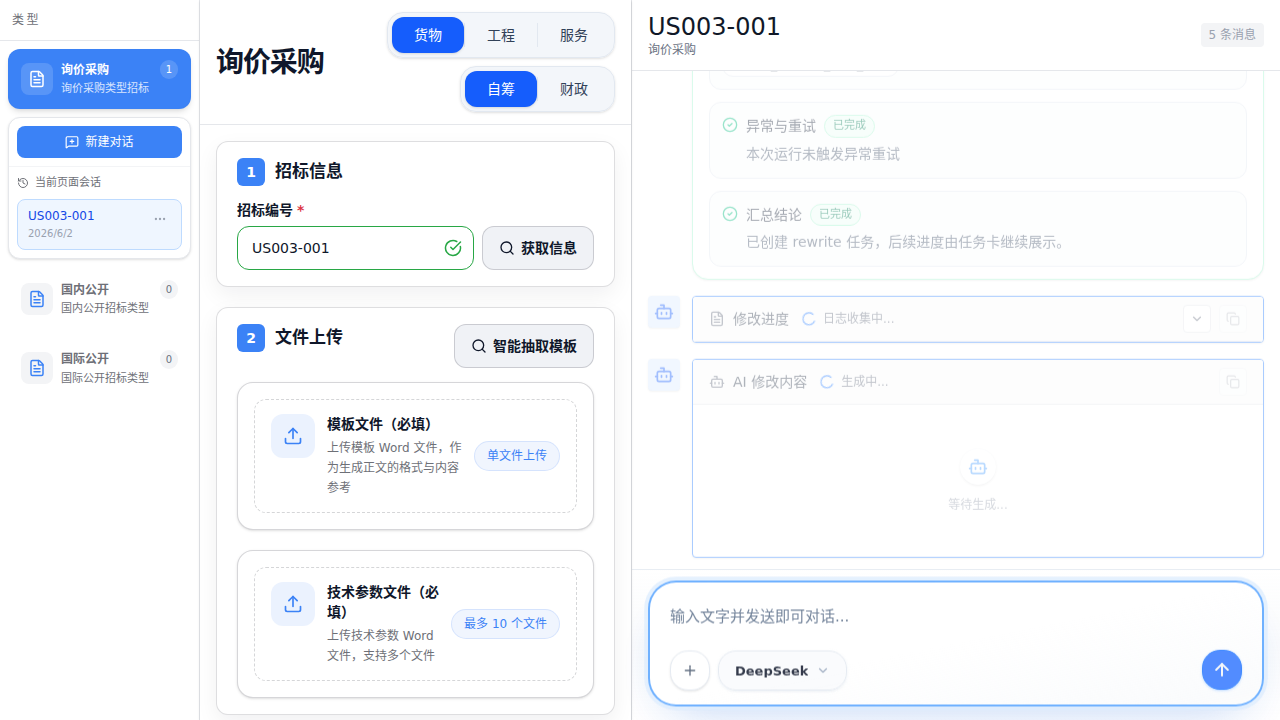
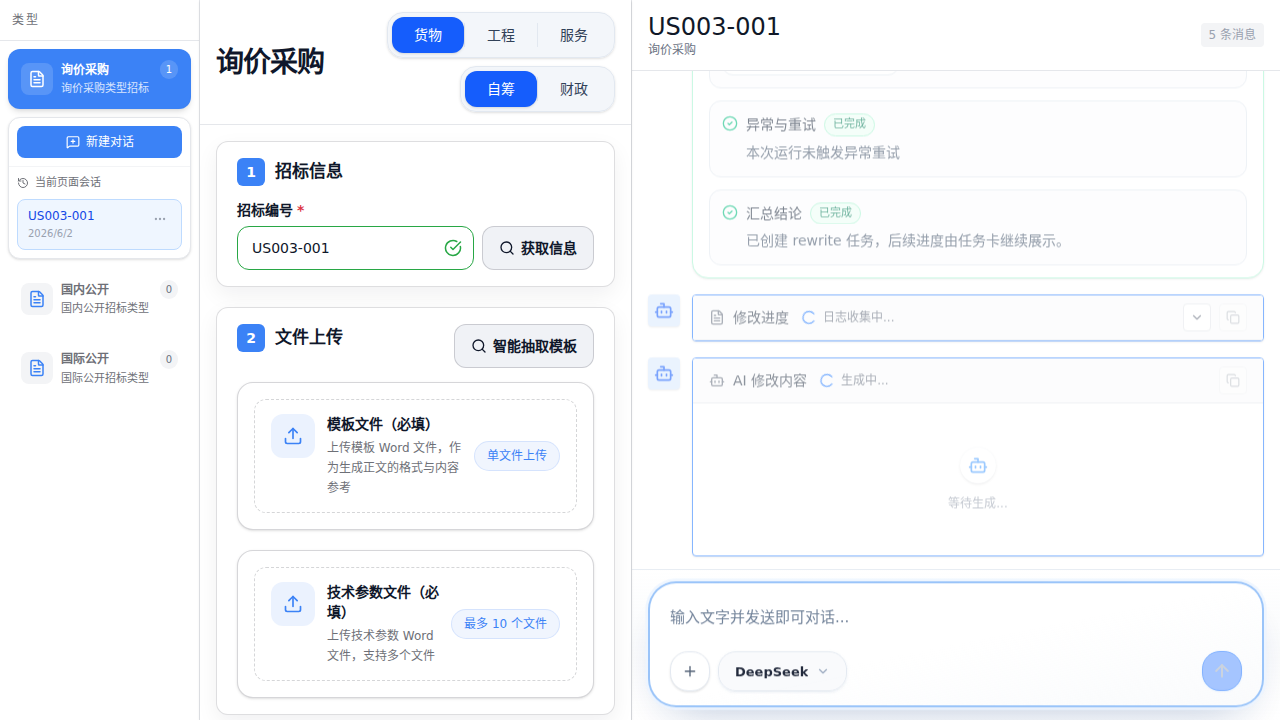
feat: [US-014] - [完成 rewrite 到 edit 的集成回归验证与文档更新]

diff --git a/ARCHITECTURE.md b/ARCHITECTURE.md
@@ -121,7 +121,7 @@ backend/task/
 backend/core/
   SSE 管理与跨线程基础设施
 backend/graphs/
-  LangGraph tender、skill、user 工作流
+  LangGraph tender、skill 与 comment_supplement 工作流
 backend/agents/generation/
   初次生成 content_agent 主/子智能体与工作区
 backend/agents/comments/
